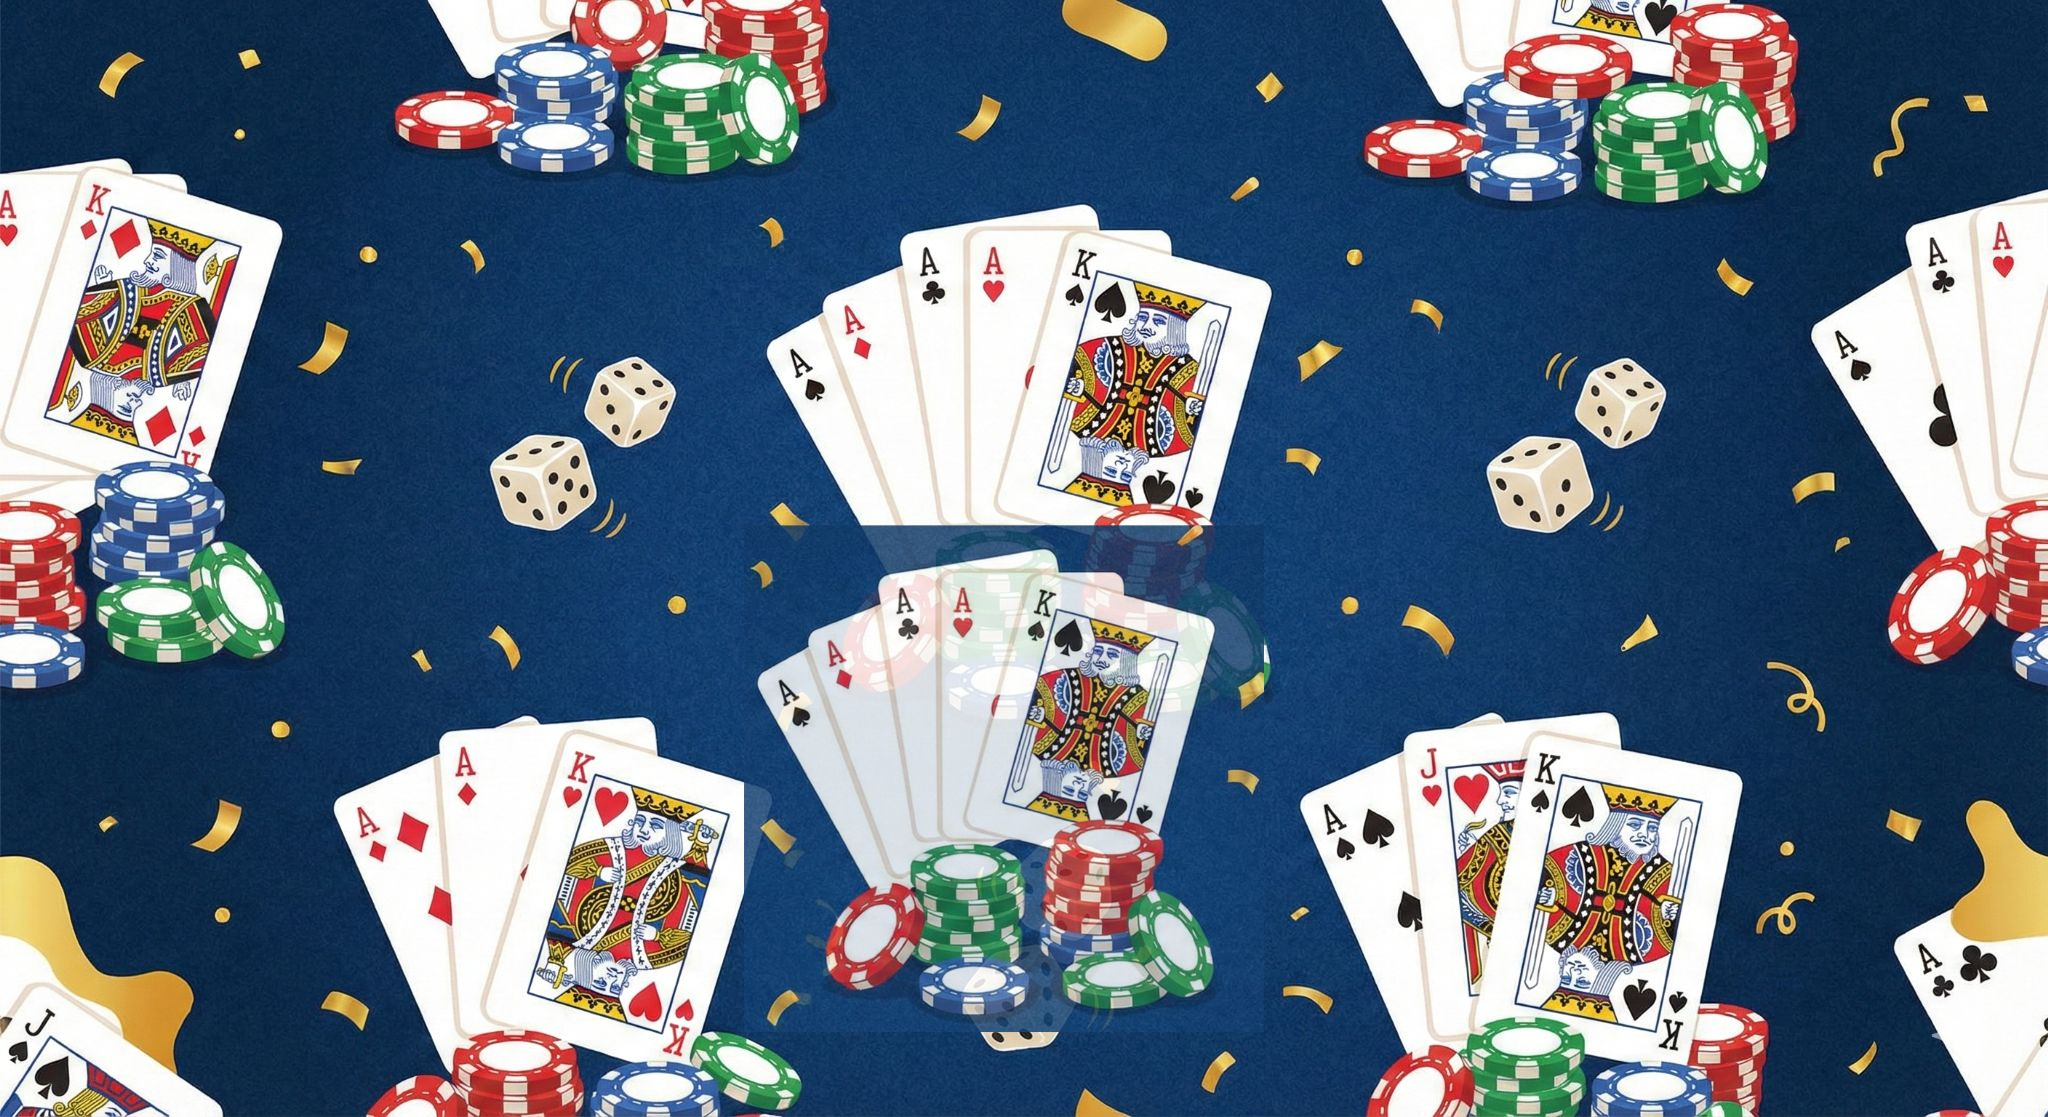
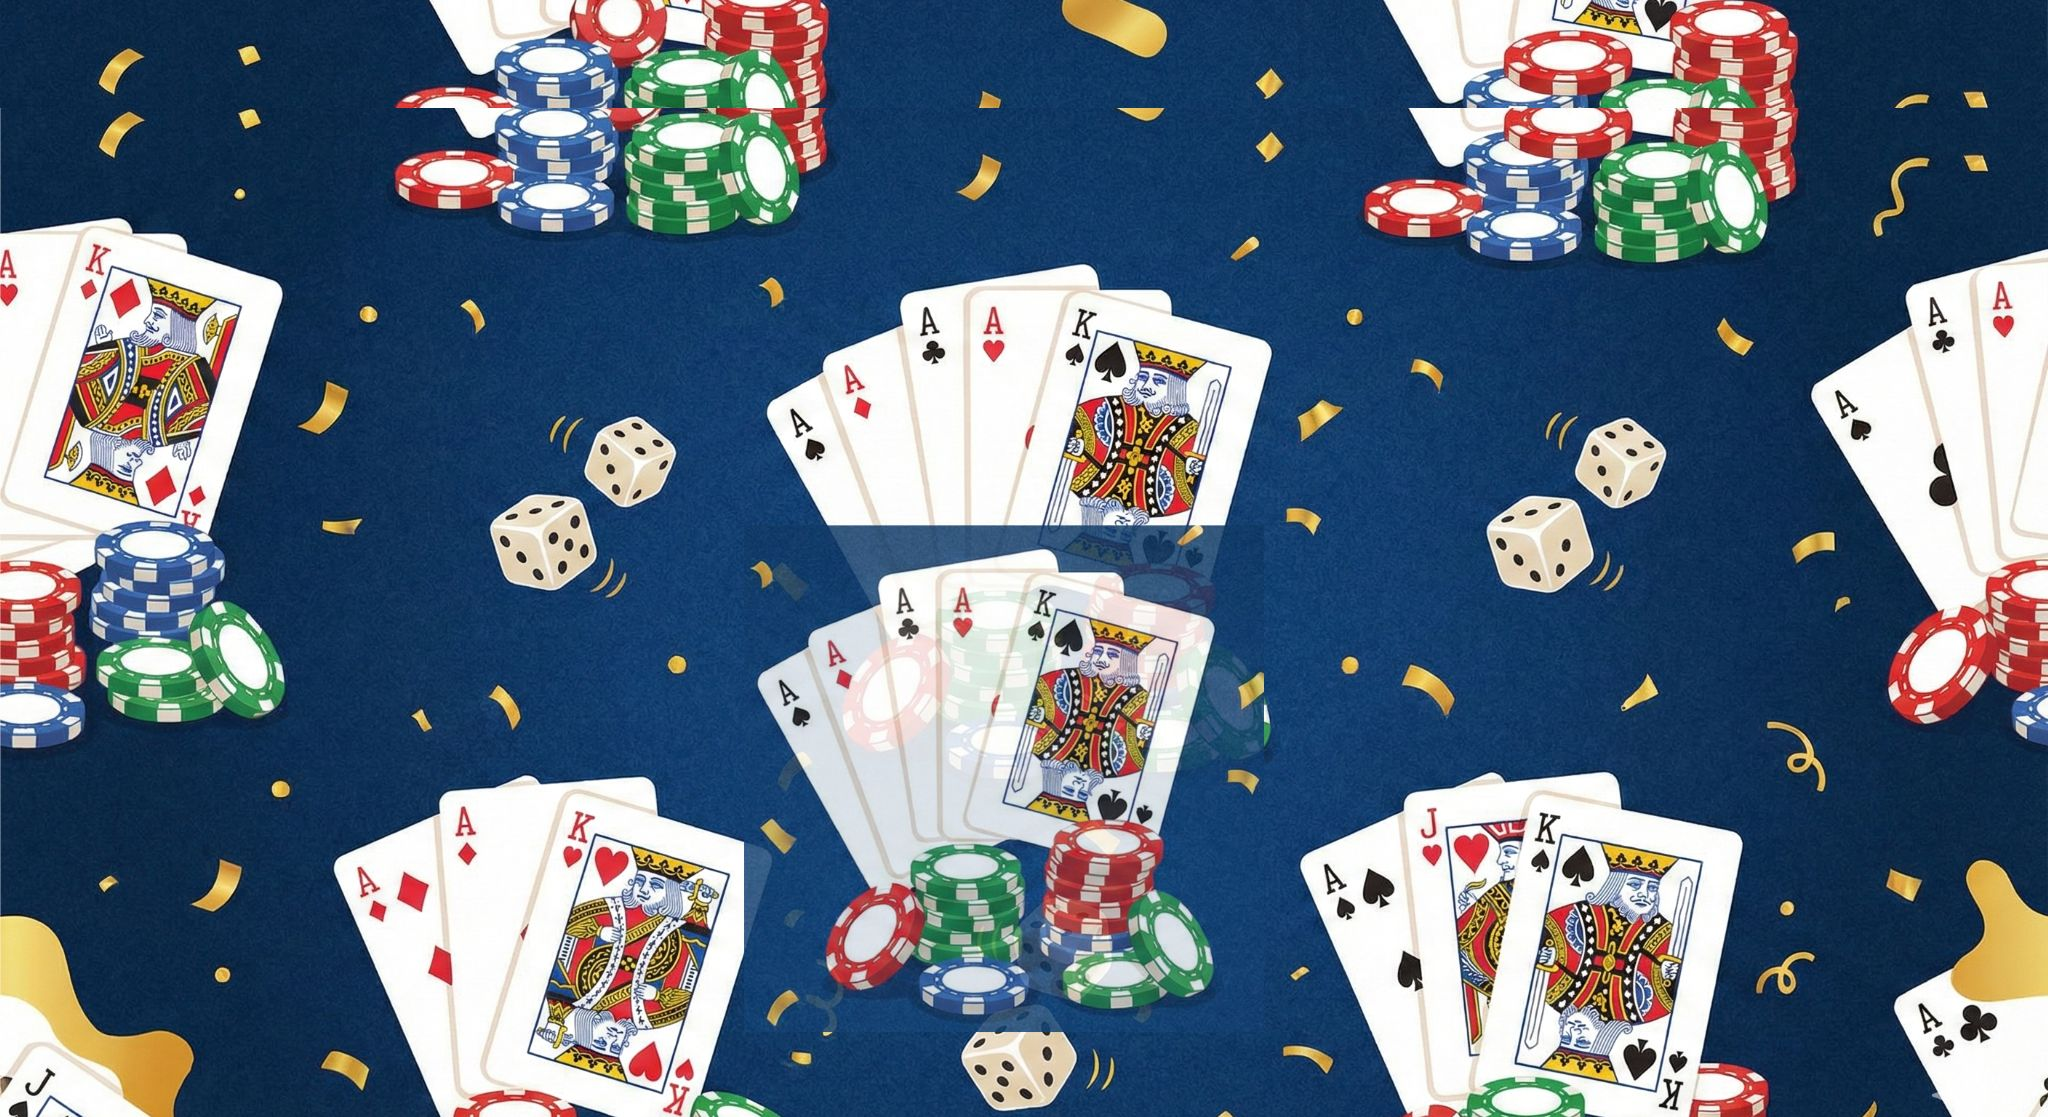
Changed Buttons and Confetti

diff --git a/index.html b/index.html
@@ -7,7 +7,7 @@
     <link href="https://fonts.googleapis.com/css2?family=Lobster&display=swap" rel="stylesheet">
     
     <style>
-        /* --- GLOBAL RESETS (Crucial for fixing white borders) --- */
+        /* --- GLOBAL RESETS --- */
         * { box-sizing: border-box; }
         
         html, body {
@@ -15,19 +15,20 @@
             padding: 0;
             width: 100%;
             height: 100%;
-            overflow-x: hidden; /* Prevent horizontal scroll */
+            overflow-x: hidden; 
         }
+
         body { 
             font-family: -apple-system, BlinkMacSystemFont, "Segoe UI", Roboto, Helvetica, Arial, sans-serif; 
             color: #333; 
-            padding: 20px; /* Padding for content only */
-            background-color: #1a2639; /* Fallback background color */
+            padding: 20px; 
+            background-color: #1a2639; 
         }
-        /* --- 1. FIXED BACKGROUND (No White Edges) --- */
+
+        /* --- 1. FIXED BACKGROUND --- */
         body::before {
             content: "";
             position: fixed;
-            /* Dramatically oversize the background to completely hide blur edges */
             top: -50px; 
             left: -50px; 
             width: calc(100% + 100px); 
@@ -39,12 +40,11 @@
             background-position: center;  
             background-repeat: no-repeat;
             
-            filter: blur(4px); 
+            filter: blur(6px); 
             z-index: -1;
-            
-            /* Prevent any gaps */
             transform: scale(1.1);
         }
+
         /* --- 2. GLASS HEADER --- */
         .glass-header {
             text-align: center;
@@ -55,10 +55,10 @@
             box-shadow: 0 8px 32px 0 rgba(0, 0, 0, 0.3);
             border-radius: 24px;
             padding: 20px 30px;
-            width: fit-content;
+            width: 70%;
             margin: 0 auto 30px auto;
         }
-        /* --- 3. REFINED TITLE SHADOW --- */
+
         h1 { 
             font-family: 'Lobster', cursive; 
             margin: 0; 
@@ -87,7 +87,7 @@
             position: relative; 
             z-index: 2; 
             border: 1px solid rgba(255, 255, 255, 0.6);
-            max-width: 600px; /* Ensure card doesn't stretch too wide on desktop */
+            max-width: 600px; 
             margin-left: auto;
             margin-right: auto;
         }
@@ -106,26 +106,90 @@
         }
         
         td { padding: 8px 4px; border-bottom: 1px solid #eee; vertical-align: middle; }
+
         .col-player { text-align: left; width: auto; }
         .col-num { text-align: center; width: 1%; }
         .col-del { text-align: center; width: 30px; }
+
         /* Inputs */
         input[type="text"] { width: 100%; padding: 12px; border: 1px solid #e1e4e8; border-radius: 8px; font-size: 16px; box-sizing: border-box; background: #f8f9fa; }
         input[type="number"] { width: 100%; padding: 12px; border: 1px solid #e1e4e8; border-radius: 8px; font-size: 16px; text-align: center; box-sizing: border-box; background: #f8f9fa; }
         input:focus { outline: none; border-color: #007bff; background: #fff; box-shadow: 0 0 0 3px rgba(0,123,255,0.1); }
-        /* Buttons */
-        .btn-group { display: flex; gap: 10px; margin-top: 20px; }
-        button { flex: 1; padding: 14px; border: none; border-radius: 10px; cursor: pointer; font-weight: bold; font-size: 16px; transition: opacity 0.2s, transform 0.1s; }
-        button:active { transform: scale(0.98); }
-        .btn-add { background-color: #e3f2fd; color: #007bff; }
-        .btn-calc { background-color: #28a745; color: white; box-shadow: 0 4px 15px rgba(40, 167, 69, 0.2); }
-        .btn-reset { background-color: #ffc107; color: #333; }
+
+        /* --- NEW TINTED GLASS BUTTONS --- */
+        .btn-group { display: flex; gap: 12px; margin-top: 20px; }
         
+        button { 
+            flex: 1; 
+            padding: 14px; 
+            border-radius: 16px; 
+            cursor: pointer; 
+            font-weight: 700; 
+            font-size: 16px; 
+            color: #444; /* Darker text for glass readability */
+            
+            /* Glass Core Logic */
+            backdrop-filter: blur(12px);
+            -webkit-backdrop-filter: blur(12px);
+            border: 1px solid rgba(255, 255, 255, 0.4);
+            box-shadow: 0 4px 6px rgba(0, 0, 0, 0.05); /* Soft shadow */
+            
+            transition: all 0.3s cubic-bezier(0.25, 0.8, 0.25, 1);
+            position: relative;
+            overflow: hidden;
+        }
+
+        /* 1. Add Player (Blue Tint) */
+        .btn-add { 
+            background: rgba(33, 150, 243, 0.85); /* Very transparent blue */
+            color: white;
+        }
+        /* Hover Effect: Fills with color 
+        .btn-add:hover { 
+            background: rgba(33, 150, 243, 0.85); 
+            color: white;
+            box-shadow: 0 8px 20px rgba(33, 150, 243, 0.4);
+            border-color: rgba(255,255,255,0.6);
+            transform: translateY(-2px);
+        }*/
+
+        /* 2. Calculate (Green Tint) */
+        .btn-calc { 
+            background: rgba(76, 175, 80, 0.85); 
+            color: white;
+        }
+        /* Hover Effect 
+        .btn-calc:hover { 
+            background: rgba(76, 175, 80, 0.85); 
+            color: white;
+            box-shadow: 0 8px 20px rgba(76, 175, 80, 0.4);
+            border-color: rgba(255,255,255,0.6);
+            transform: translateY(-2px);
+        }*/
+
+        /* 3. Reset (Amber Tint) */
+        .btn-reset { 
+            background: rgba(255, 193, 7, 0.85); /* Very transparent amber */
+            color: white;
+        }
+        /* Hover Effect 
+        .btn-reset:hover { 
+            background: rgba(255, 193, 7, 0.85); 
+            color: white;
+            box-shadow: 0 8px 20px rgba(255, 193, 7, 0.4);
+            border-color: rgba(255,255,255,0.6);
+            transform: translateY(-2px);
+        }*/
+        
+        button:active { transform: scale(0.96); }
+
+        /* Delete Button */
         .delete-btn { 
             background: none; color: #ff4d4d; font-size: 20px; padding: 0; width: 30px; height: 30px;
             display: flex; align-items: center; justify-content: center; cursor: pointer; border-radius: 50%;
+            box-shadow: none; border: none; backdrop-filter: none;
         }
-        .delete-btn:hover { background-color: #fff0f0; }
+        .delete-btn:hover { background-color: #fff0f0; transform: none; box-shadow: none; color: #d32f2f; }
         
         /* --- RESULTS SECTION --- */
         #results { display: none; border-top: 4px solid #28a745; animation: slideUp 0.5s ease-out; }
@@ -150,6 +214,7 @@
         .amount-arrow { font-size: 1.2em; color: #b2bec3; margin-top: -5px; display: block; }
         .perfect-tag { position: absolute; top: -25px; left: 50%; transform: translateX(-50%); background: #f1c40f; color: #fff; font-size: 0.65em; font-weight: bold; padding: 2px 8px; border-radius: 4px; white-space: nowrap; box-shadow: 0 2px 4px rgba(0,0,0,0.1); }
         .breakeven-card { background: #f8f9fa; color: #95a5a6; padding: 12px; border-radius: 8px; text-align: center; margin-bottom: 10px; border: 1px dashed #ced6e0; font-style: italic; }
+
         /* --- ERROR BOX --- */
         #errorBox { display: none; background: #fff5f5; border: 2px solid #ffcccc; border-radius: 12px; padding: 20px; margin-top: 20px; text-align: center; }
         .error-title { color: #c0392b; font-weight: bold; font-size: 1.1em; text-transform: uppercase; letter-spacing: 1px; margin-bottom: 15px; }
@@ -158,6 +223,7 @@
         .stat-label { font-size: 0.85em; color: #e74c3c; font-weight: 600; text-transform: uppercase; margin-bottom: 10px; }
         .stat-chips { font-size: 1.4em; font-weight: 700; color: #2c3e50; background: #ecf0f1; display: inline-block; padding: 5px 15px; border-radius: 20px; }
         .suggestion-box { font-size: 0.9em; color: #7f8c8d; border-top: 1px solid #ffe6e6; padding-top: 10px; margin-top: 10px; }
+
         #confetti-canvas { position: fixed; top: 0; left: 0; width: 100%; height: 100%; pointer-events: none; z-index: 9999; }
         @keyframes slideUp { from { transform: translateY(20px); opacity: 0; } to { transform: translateY(0); opacity: 1; } }
     </style>
@@ -169,6 +235,7 @@
         <h1>Chipwise</h1>
         <div class="subtitle">1 Buy-in ($10) = 40 Chips</div>
     </div>
+
     <div class="card">
         <table id="playerTable">
             <thead>
@@ -181,6 +248,7 @@
             </thead>
             <tbody></tbody>
         </table>
+
         <div class="btn-group">
             <button class="btn-add" onclick="addPlayer()">+ Add Player</button>
         </div>
@@ -188,6 +256,7 @@
             <button class="btn-calc" onclick="calculate()">Calculate Payouts</button>
             <button class="btn-reset" onclick="reset()">Reset</button>
         </div>
+
         <div id="errorBox">
             <div class="error-title">❌ Totals do not match</div>
             <div class="stat-container">
@@ -198,13 +267,16 @@
             <div id="smartSuggestion" class="suggestion-box"></div>
         </div>
     </div>
+
     <div id="results" class="card">
         <div id="statusMessage" class="status-header status-success"></div>
         <div id="payoutList"></div>
     </div>
+
     <script>
-        const STORAGE_KEY = 'chipwise_v6_1';
+        const STORAGE_KEY = 'chipwise_v8';
         window.onload = function() { loadData(); };
+
         function saveData() {
             const rows = document.getElementById("playerTable").getElementsByTagName('tbody')[0].rows;
             let data = [];
@@ -214,6 +286,7 @@
             }
             localStorage.setItem(STORAGE_KEY, JSON.stringify(data));
         }
+
         function loadData() {
             const savedData = localStorage.getItem(STORAGE_KEY);
             const tbody = document.getElementById("playerTable").getElementsByTagName('tbody')[0];
@@ -224,7 +297,9 @@
                 else addDefaults();
             } else addDefaults();
         }
+
         function addDefaults() { addPlayer(); addPlayer(); addPlayer(); addPlayer(); }
+
         function addPlayer(name = "", buyins = "1", chips = "") {
             const table = document.getElementById("playerTable").getElementsByTagName('tbody')[0];
             const newRow = table.insertRow();
@@ -236,8 +311,10 @@
             `;
             saveData();
         }
+
         function removeRow(btn) { btn.parentNode.parentNode.remove(); saveData(); }
         function reset() { if(confirm("Clear all data?")) { localStorage.removeItem(STORAGE_KEY); location.reload(); } }
+
         function calculate() {
             const rows = document.getElementById("playerTable").getElementsByTagName('tbody')[0].rows;
             let players = [];
@@ -245,6 +322,7 @@
             let totalCashOut = 0;
             document.getElementById("errorBox").style.display = "none";
             document.getElementById("results").style.display = "none";
+
             for (let i = 0; i < rows.length; i++) {
                 let inputs = rows[i].getElementsByTagName("input");
                 let name = inputs[0].value.trim();
@@ -258,8 +336,10 @@
                 totalCashOut += cashValue;
                 players.push({ name: name, net: net });
             }
+
             let discrepancy = totalCashOut - totalInvested;
             let statusDiv = document.getElementById("statusMessage");
+
             if (Math.abs(discrepancy) > 0.10) {
                 showError(discrepancy);
             } else {
@@ -269,6 +349,7 @@
                 let losers = players.filter(p => p.net < -0.01).map(p => ({...p}));
                 let breakEven = players.filter(p => Math.abs(p.net) <= 0.01); 
                 let payouts = [];
+
                 for (let w = 0; w < winners.length; w++) {
                     if (winners[w].net === 0) continue;
                     for (let l = 0; l < losers.length; l++) {
@@ -292,15 +373,18 @@
                     winner.net -= amount; loser.net += amount;
                 }
                 breakEven.forEach(p => { payouts.push(`<div class='breakeven-card'><strong>${p.name}</strong> is Break Even</div>`); });
+
                 document.getElementById("payoutList").innerHTML = payouts.length > 0 ? payouts.join("") : "<div class='breakeven-card'>No transactions needed.</div>";
                 document.getElementById("results").style.display = "block";
                 document.getElementById("results").scrollIntoView({behavior: "smooth"});
             }
         }
+
         function createPayout(from, to, amount, isPerfect) {
             let perfectTag = isPerfect ? `<div class="perfect-tag">⭐ PERFECT MATCH</div>` : "";
             return `<div class="settlement-card"><div class="player-box payer"><span class="player-name">${from}</span><span class="player-label">PAYS</span></div><div class="amount-box">${perfectTag}<span class="amount-value">$${amount.toFixed(2)}</span><span class="amount-arrow">➔</span></div><div class="player-box receiver"><span class="player-name">${to}</span><span class="player-label">GETS</span></div></div>`;
         }
+
         function showError(diff) {
             let box = document.getElementById("errorBox");
             let displayMoney = document.getElementById("displayMoney");
@@ -324,18 +408,65 @@
             else { let buyins = Math.round(absDiff / 10); if (buyins > 0) msg = `💡 <strong>Hint:</strong> Looks like roughly <strong>${buyins} Buy-in(s)</strong> are off.`; else msg = `💡 <strong>Hint:</strong> Double check your total chip counts.`; }
             suggestion.innerHTML = msg;
         }
+
+        // --- NEW FASTER & BRIGHTER CONFETTI ENGINE ---
         function triggerConfetti() {
             const canvas = document.getElementById('confetti-canvas');
             const ctx = canvas.getContext('2d');
             canvas.width = window.innerWidth;
             canvas.height = window.innerHeight;
+
             const particles = [];
-            const colors = ['#28a745', '#007bff', '#ffc107', '#dc3545'];
-            for (let i = 0; i < 150; i++) particles.push({ x: Math.random() * canvas.width, y: Math.random() * canvas.height - canvas.height, color: colors[Math.floor(Math.random() * colors.length)], size: Math.random() * 8 + 4, speed: Math.random() * 5 + 2, wobble: Math.random() * 2 * Math.PI });
+            // Added new vibrant colors to the existing list
+            const colors = [
+                '#f44336', '#e91e63', '#9c27b0', '#673ab7', '#3f51b5', '#2196f3', '#03a9f4', '#00bcd4', '#009688', '#4caf50', '#8bc34a', '#cddc39', '#ffeb3b', '#ffc107', '#ff9800', '#ff5722', '#795548', '#FFD700', '#C0C0C0',
+                '#FF1493', '#00FF7F', '#FF69B4', '#1E90FF', '#FFFF00', '#00FFFF', '#FF4500', '#ADFF2F', '#FF00FF', '#7FFF00', '#8A2BE2', '#FFD700', '#00CED1', '#FF6347', '#32CD32', '#9370DB', '#40E0D0'
+            ];
+            
+            for (let i = 0; i < 200; i++) {
+                particles.push({
+                    x: Math.random() * canvas.width,
+                    y: Math.random() * canvas.height - canvas.height,
+                    r: Math.random() * 6 + 4, // Size
+                    d: Math.random() * 20 + 10, // Density
+                    color: colors[Math.floor(Math.random() * colors.length)],
+                    tilt: Math.floor(Math.random() * 10) - 10,
+                    tiltAngle: 0,
+                    tiltAngleIncremental: (Math.random() * 0.07) + 0.05,
+                    shape: Math.random() < 0.6 ? 'square' : 'circle' // 60% Paper, 40% Dots/Glitter
+                });
+            }
+
             function animate() {
                 ctx.clearRect(0, 0, canvas.width, canvas.height);
                 let active = false;
-                particles.forEach(p => { p.y += p.speed; p.wobble += 0.05; p.x += Math.sin(p.wobble) * 2; ctx.fillStyle = p.color; ctx.beginPath(); ctx.arc(p.x, p.y, p.size, 0, Math.PI * 2); ctx.fill(); if (p.y < canvas.height) active = true; });
+                
+                particles.forEach((p) => {
+                    p.tiltAngle += p.tiltAngleIncremental;
+                    
+                    // FASTER Fall physics (0.9 instead of 0.5)
+                    p.y += (Math.cos(p.d) + 1 + p.r / 2) * 0.9;
+                    
+                    // Sway physics
+                    p.x += Math.sin(p.tiltAngle);
+                    
+                    if (p.y < canvas.height) active = true;
+                    
+                    ctx.fillStyle = p.color;
+                    ctx.beginPath();
+                    
+                    if (p.shape === 'square') {
+                        // 3D Flip Effect
+                        let width = p.r * 2;
+                        let height = p.r * 2 * Math.abs(Math.cos(p.tiltAngle)); 
+                        ctx.fillRect(p.x, p.y, width, height);
+                    } else {
+                        // Standard Confetti Dot
+                        ctx.arc(p.x, p.y, p.r, 0, 2 * Math.PI);
+                        ctx.fill();
+                    }
+                });
+
                 if (active) requestAnimationFrame(animate);
             }
             animate();
